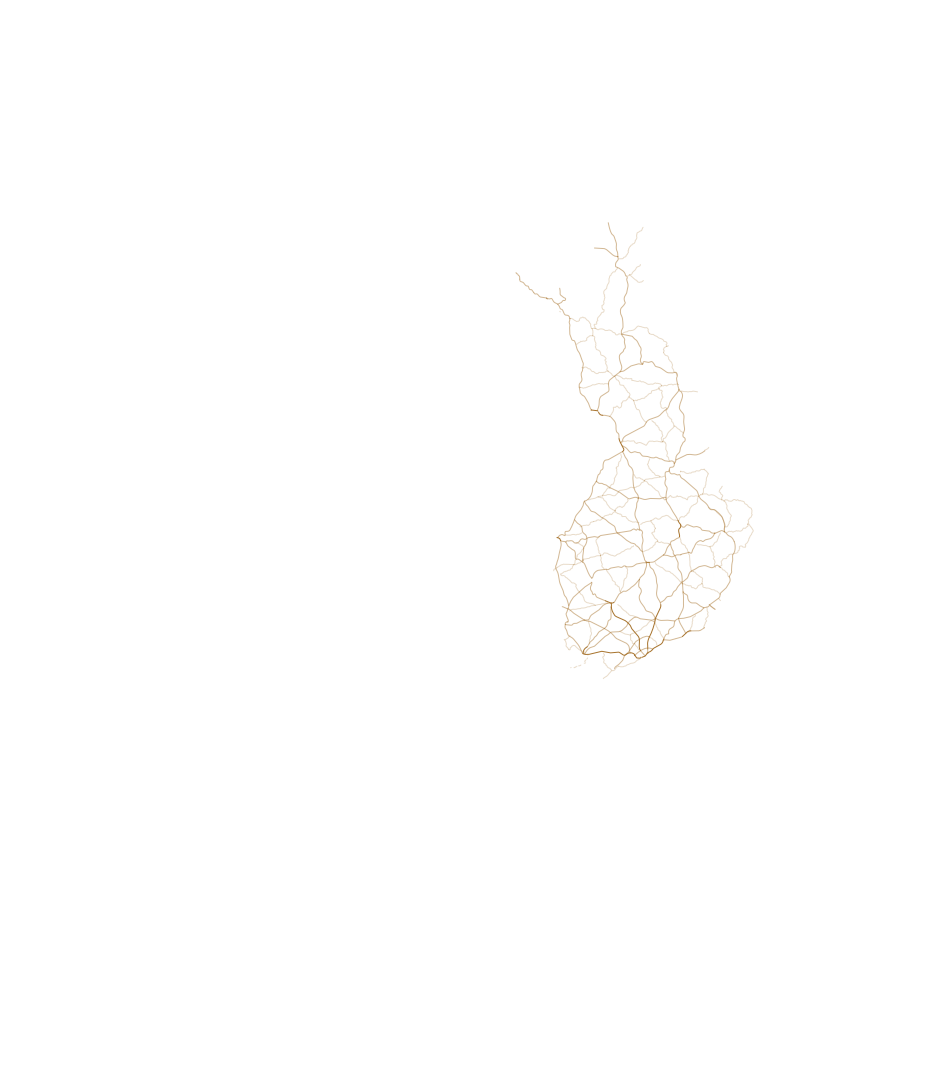
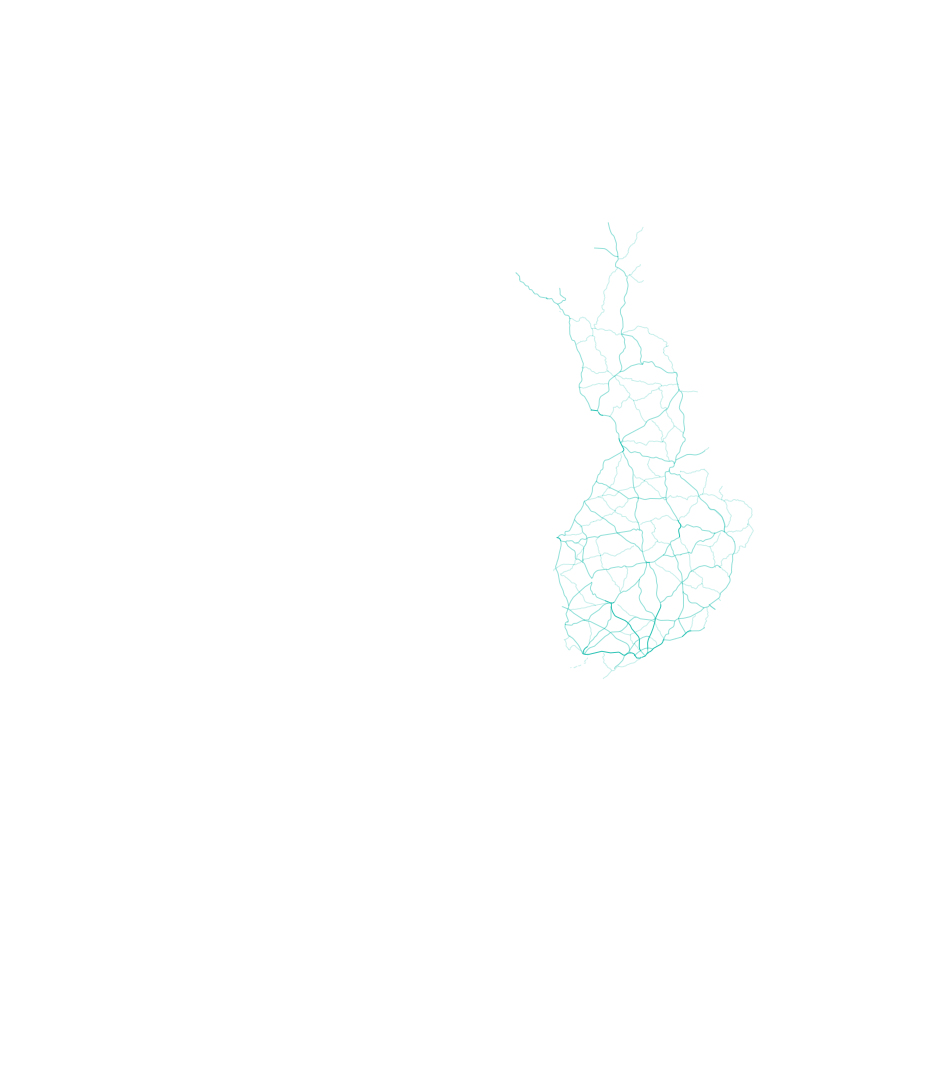
Roads to teal, matching coastline/borders (still alpha-graded by class)

Changed region(s): [[0.5806, 0.4013, 0.764, 0.6174], [0.7028, 0.4013, 0.7334, 0.4322], [0.6112, 0.3396, 0.6417, 0.3704]]

diff --git a/tools/build_coastline_overlay.py b/tools/build_coastline_overlay.py
@@ -44,9 +44,9 @@ PX = 72.0 / DPI  # matplotlib-points per output pixel
 # conveyed by BRIGHTNESS (alpha) instead of width -- major brightest, then
 # incrementally dimmer.
 LINE_PX = 1 * PX
-ROAD_COLOR = "#a8742e"      # darker warm tone (was #ffd27f)
-COAST_COLOR = "#2ec4b6"     # teal -- coastline + borders share it
+COAST_COLOR = "#2ec4b6"     # teal -- coastline, borders, and roads all share it
 BORDER_COLOR = "#2ec4b6"
+ROAD_COLOR = "#2ec4b6"      # teal (roads differentiate by alpha, not colour)
 
 # All road classes render into ONE roads.png (single viewer toggle); class is
 # conveyed by alpha. (class name, alpha), dimmest first so the brighter major